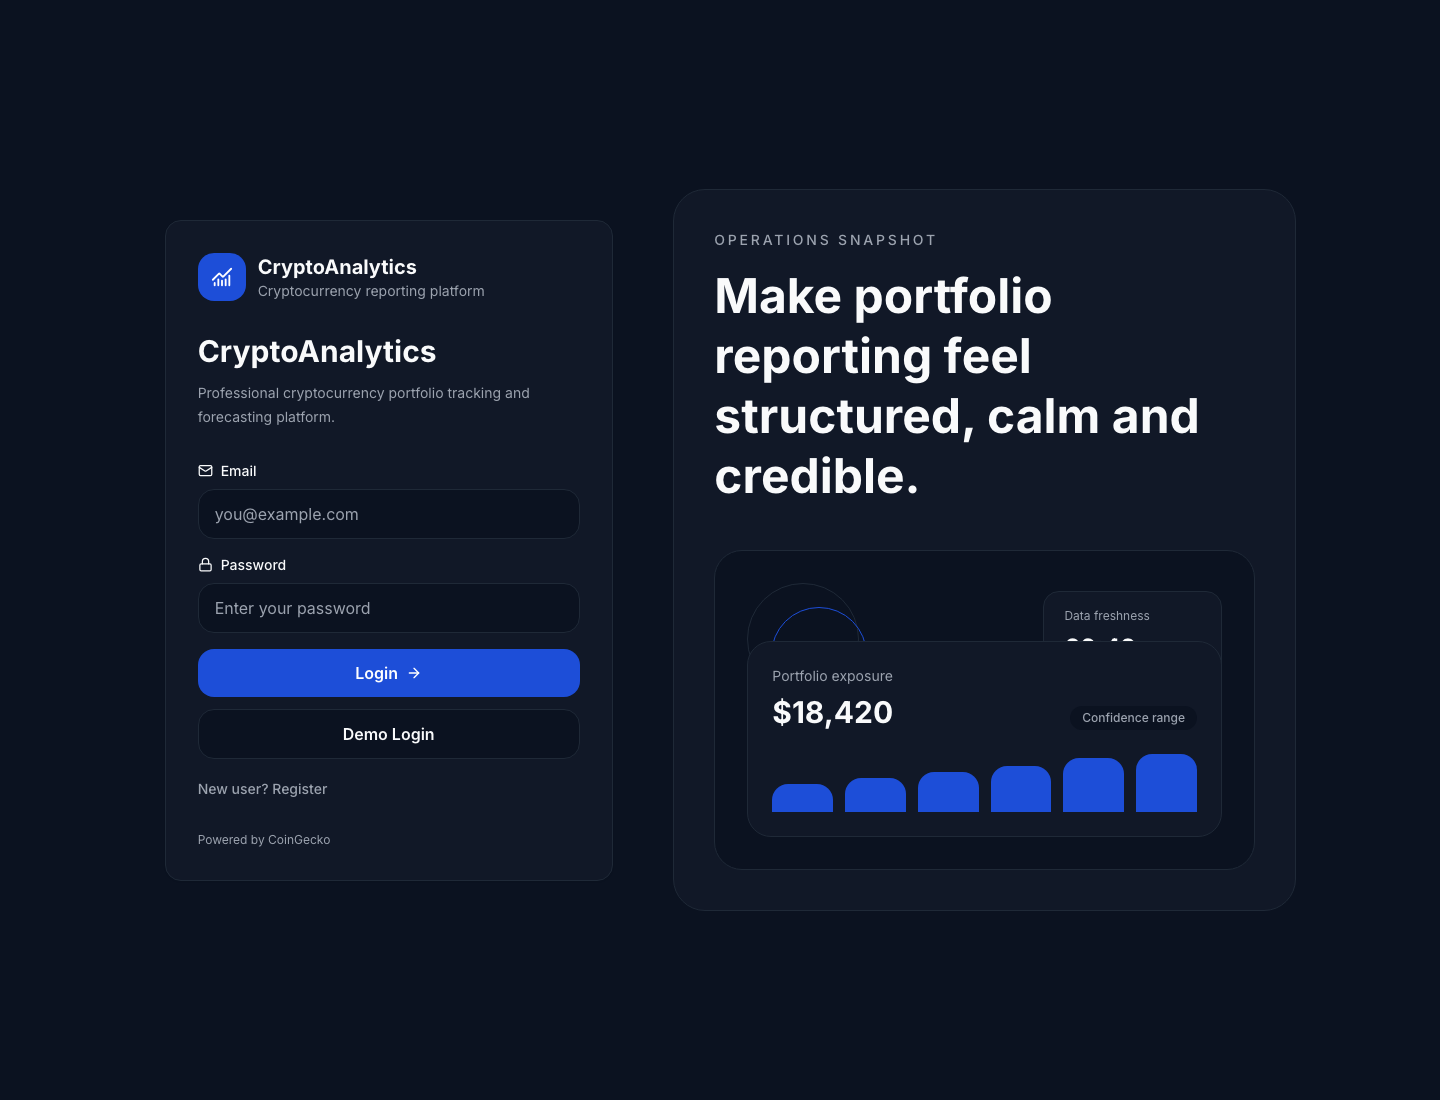
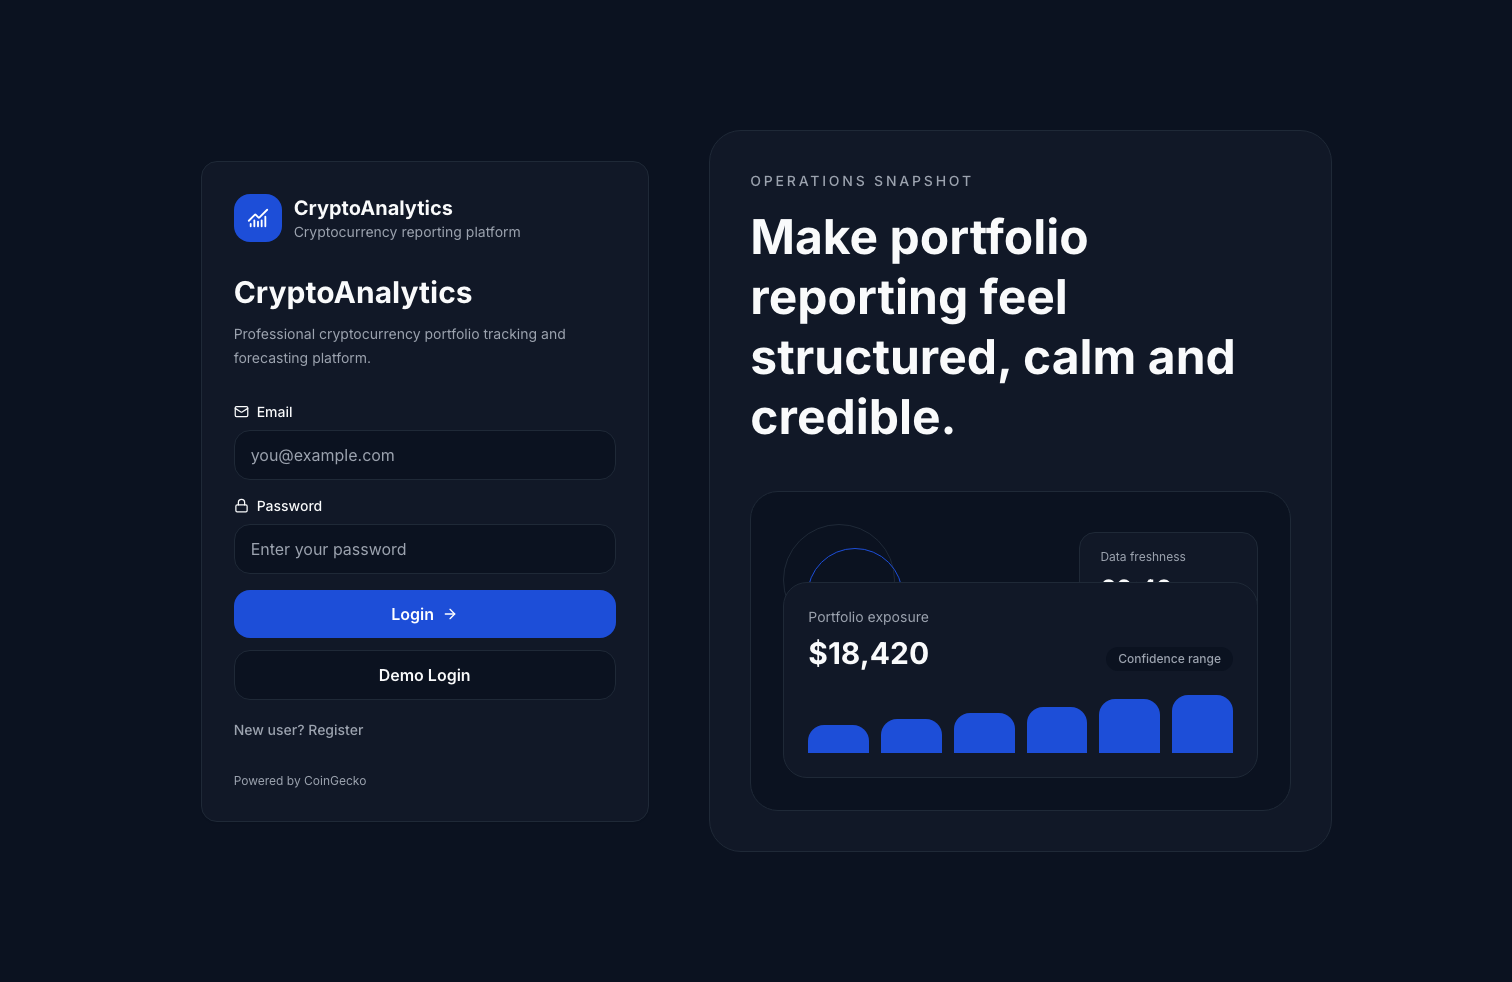
Addition

diff --git a/README.md b/README.md
@@ -13,7 +13,21 @@ The project keeps the architecture intentionally simple:
 
 ## Preview
 
+### Login
+
 ![Crypto Analytics Login Screen](screenshots/login-page.png)
+
+### Dashboard
+
+![Crypto Analytics Dashboard](screenshots/dashboard-page.png)
+
+### Portfolio
+
+![Crypto Analytics Portfolio](screenshots/portfolio-page.png)
+
+### Forecast
+
+![Crypto Analytics Forecast](screenshots/forecast-page.png)
 
 ## Features
 
